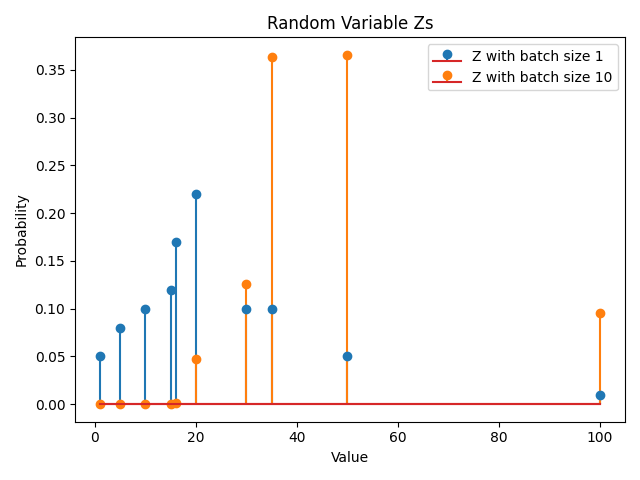
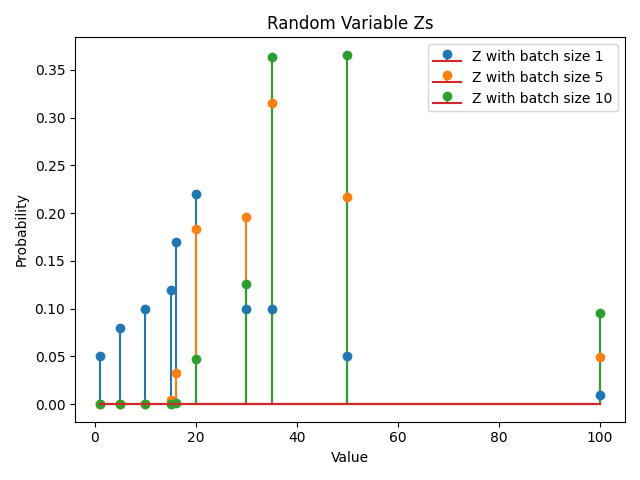
add graphs

diff --git a/graphs.py b/graphs.py
@@ -4,7 +4,7 @@ from prob import *
 import model
 
 graphs = [None] + [0]*10
-graphs[5] = 0
+graphs[4] = 1
 fig = plt.figure(tight_layout=True)
 
 def graph_rv(X: list, p: list, i: int=0, label: str=None) -> None:
@@ -13,43 +13,55 @@ def graph_rv(X: list, p: list, i: int=0, label: str=None) -> None:
     plt.ylabel("Probability")
     plt.xlabel("Value")
 
+def model_pmf(r: int=R, b: int=B,
+        ra: bool=model.ROLLS_AVAILABLE, rc: int=model.ROLLS_CYCLE) -> float:
+    """ pmf for the given parameterized model. """
+    m = model.Model(r, b, ra, rc)
+    return [m.p_k(x) for x in X]
+
+ev, var = lambda *args: E(model_pmf(*args)), lambda *args: Var(model_pmf(*args))
+
 ### Graph 1: pmf of X
-if graphs[1]:
+g = 1
+if graphs[g]:
     graph_rv(X, p)
     plt.title("Random Variable X")
-    # plt.savefig("graphs/graph1.png")
+    # plt.savefig(f"graphs/graph{g}.png")
     plt.show()
 
 ### Graph 2: pmf of Zn
-if graphs[2]:
+g = 2
+if graphs[g]:
     B = 10
-    for i, b in enumerate([1, B]):
+    for i, b in enumerate([1, 5, B]):
         graph_rv(Z, [fz(z, b) for z in Z], i, f"Z with batch size {b}")
     plt.title("Random Variable Zs")
     plt.legend()
-    # plt.savefig("graphs/graph2.png")
+    # plt.savefig(f"graphs/graph{g}.png")
     plt.show()
 
 ### Graph 3: pmf of the model 
-if graphs[3]:
+g = 3
+if graphs[g]:
     R, B = 30, 10
     m = model.Model(R)
     graph_rv(X, p, 0, "X")
-    graph_rv(Z, [fz(z) for z in Z], 1, f"Z with batch size {B}")
-    graph_rv(X, [m.p_k(x) for x in X], 2, f"Model pmf over {R} rolls")
+    graph_rv(Z, [fz(z, B) for z in Z], 1, f"Z with batch size {B}")
+    graph_rv(X, model_pmf(R, B, False), 2, f"Model pmf over {R} rolls")
     plt.title("Random Variable of the Model")
     plt.legend()
-    # plt.savefig("graphs/graph3.png")
+    # plt.savefig(f"graphs/graph{g}.png")
     plt.show()
 
 ### Graph 4: the E[t] dropoff over time
-if graphs[4]:
+g = 4
+if graphs[g]:
     R, B = 300, 10
     BATCHES = R//B
-    x, y = list(range(R + 1)), [Er(0, r) for r in range(R + 1)]
+    x, y = list(range(R + 1)), [ev(r, 1, False) for r in range(R + 1)]
     # xz = [b*B for b in range(BATCHES + 1)]
     # yz = [Er(1, b) for b in range(BATCHES + 1)]
-    yf = list(map(Ef, range(R + 1)))
+    yf = [ev(r, B, False) for r in x]
     plt.plot(x, y, label="batch size of 1")
     # plt.plot(xz, yz, label=f"batch size of {B}")
     plt.plot(x, yf, label=f"batch size of {B}")
@@ -57,11 +69,40 @@ if graphs[4]:
     plt.ylabel("Expected Value (kakera)")
     plt.xlabel("Time (rolls)")
     plt.legend()
-    # plt.savefig("graphs/graph4.png")
+    # plt.savefig(f"graphs/graph{g}.png")
     plt.show()
 
-### Graph 5: the derivative E[t] with respect to t
-if graphs[5]:
+### Graph 5: expected value of the model over batch size
+g = 5
+if graphs[g]:
+    R, B = 50, 52
+    x, y = list(range(1, B + 1)), [ev(R, b, False) for b in range(1, B + 1)]
+    plt.plot(x, y)
+    plt.title("Model Expected Value over Batch Size")
+    plt.ylabel("Expected Value (kakera)")
+    plt.xlabel("Batch Size")
+    # plt.savefig(f"graphs/graph{g}.png")
+    plt.show()
+
+### Graph 6: expected value of the model over rolls and batch size
+g = 6
+if graphs[g]:
+    R, B = 100, 100
+    grid = [[(r, b) for b in range(1, B + 1)] for r in range(1, R + 1)]
+    z = [[ev(r, b, False) for r, b in row] for row in grid]
+    ax = fig.add_subplot(111, projection="3d")
+    ax.plot_surface(*zip(*[zip(*row) for row in grid]), np.array(z),
+                    cmap="viridis")
+    ax.set_title("Expected Value over Rolls and Batch Size")
+    ax.set_zlabel("Expected Value")
+    plt.ylabel("Batch Size")
+    plt.xlabel("Rolls")
+    # plt.savefig(f"graphs/graph{g}.png")
+    plt.show()
+
+### Graph 7: the derivative E[t] with respect to t
+g = 7
+if graphs[g]:
     R = 30
     x, yf = list(range(R + 1)), list(map(Ef, range(R + 1)))
     yp = [yf[i + 1] - yf[i] for i in range(len(yf) - 1)]
@@ -69,11 +110,12 @@ if graphs[5]:
     plt.title("Change over Time")
     plt.ylabel("Change in Expected Value (kakera)")
     plt.xlabel("Time (rolls)")
-    # plt.savefig("graphs/graph5.png")
+    # plt.savefig(f"graphs/graph{g}.png")
     plt.show()
 
-### Graph 6: unit price of rolls
-if graphs[6]:
+### Graph 8: unit price of rolls
+g = 8
+if graphs[g]:
     grid = [[(r, k) for k in range(1, 11)] for r in range(R + 1)]
     z = [[price(r, k)/k for r, k in row] for row in grid]
     ax = fig.add_subplot(111, projection="3d")
@@ -83,41 +125,37 @@ if graphs[6]:
     ax.set_zlabel("Unit Price of Rolls (Kakera/Roll)")
     ax.set_ylabel("Number of Rolls Sold")
     ax.set_xlabel("Buyer's Number of Rolls")
-    # plt.savefig("graphs/graph6.png")
+    # plt.savefig(f"graphs/graph{g}.png")
     plt.show()
 
-### Graph 7: variance of the model over rolls
-def model_pmf(r: int=R, b: int=B,
-        ra: bool=model.ROLLS_AVAILABLE, rc: int=model.ROLLS_CYCLE) -> float:
-    """ pmf for the given parameterized model. """
-    m = model.Model(r, b, ra, rc)
-    return [m.p_k(x) for x in X]
-
-var = lambda *args: Var(model_pmf(*args))
-
-if graphs[7]:
-    R, B = 600, 100
-    x, y = list(range(R + 1)), [var(r, B) for r in range(R + 1)]
+### Graph 9: variance of the model over rolls
+g = 9
+if graphs[9]:
+    R, B = 600, 600
+    x, y = list(range(R + 1)), [var(r, B, False) for r in range(R + 1)]
     plt.plot(x, y)
     plt.title("Model Variance over Time")
     plt.ylabel("Variance (kakera^2)")
     plt.xlabel("Rolls")
-    plt.savefig("graphs/graph7.png")
+    # plt.savefig(f"graphs/graph{g}.png")
     plt.show()
 
-### Graph 8: variance over batch size 
-if graphs[8]:
-    R = 100
-    x, y = list(range(1, B + 1)), [var(R, b) for b in range(1, B + 1)]
+### Graph 10: variance over batch size 
+g = 10
+if graphs[g]:
+    R, B = 100, 100
+    x, y = list(range(1, B + 1)), [var(R, b, False) for b in range(1, B + 1)]
     plt.plot(x, y)
     plt.title("Model Variance over Batch Size")
     plt.ylabel("Variance (kakera^2)")
     plt.xlabel("Batch Size")
-    plt.savefig("graphs/graph8.png")
+    # # plt.savefig(f"graphs/graph{g}.png")
     plt.show()
 
-### Graph 9: variance over rolls and batch size
-if graphs[9]:
+### Graph 11: variance over rolls and batch size
+g = 11
+if graphs[g]:
+    R, B = 300, 300
     grid = [[(r, b) for b in range(1, B + 1)] for r in range(1, R + 1)]
     z = [[var(r, b, False) for r, b in row] for row in grid]
     ax = fig.add_subplot(111, projection="3d")
@@ -127,6 +165,6 @@ if graphs[9]:
     ax.set_zlabel("Variance")
     plt.ylabel("Batch Size")
     plt.xlabel("Rolls")
-    plt.savefig("graphs/graph9.png")
+    # plt.savefig(f"graphs/graph{g}.png")
     plt.show()
 

diff --git a/prob.py b/prob.py
@@ -13,7 +13,7 @@ p = [0.05, 0.08, 0.1, 0.12, 0.17, 0.22, 0.1,  0.1, 0.05, 0.01]
 assert sum(p) == 1
 
 # number of discrete values, number of rolls, number of rolls per batch
-N, R, B = len(X), 30, 100
+N, R, B = len(X), 30, 1000
 # value to index
 D = {x: i for i, x in enumerate(X)}
 

diff --git a/README.md b/README.md
@@ -10,4 +10,6 @@ TODO:
 - graph variance vs # rolls, batch size, with/without $rolls
 - finish $rolls introspection
 - rewrite main to use model 
+- long-running average pmf with fast polynomial exponentiation
+(like fast exponentiation but with convolution)
 
